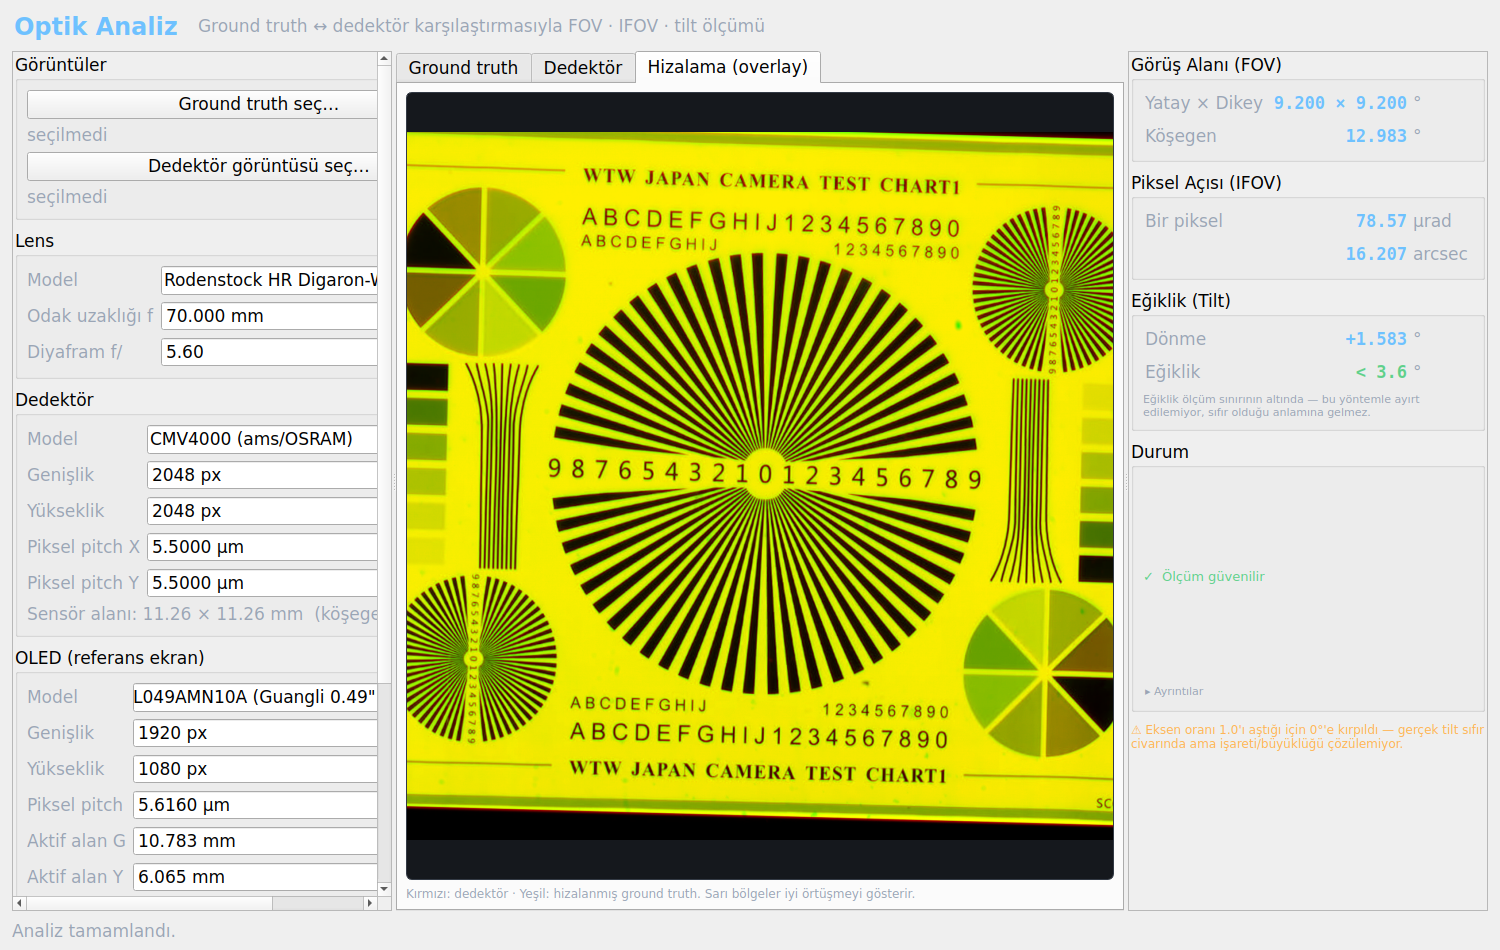
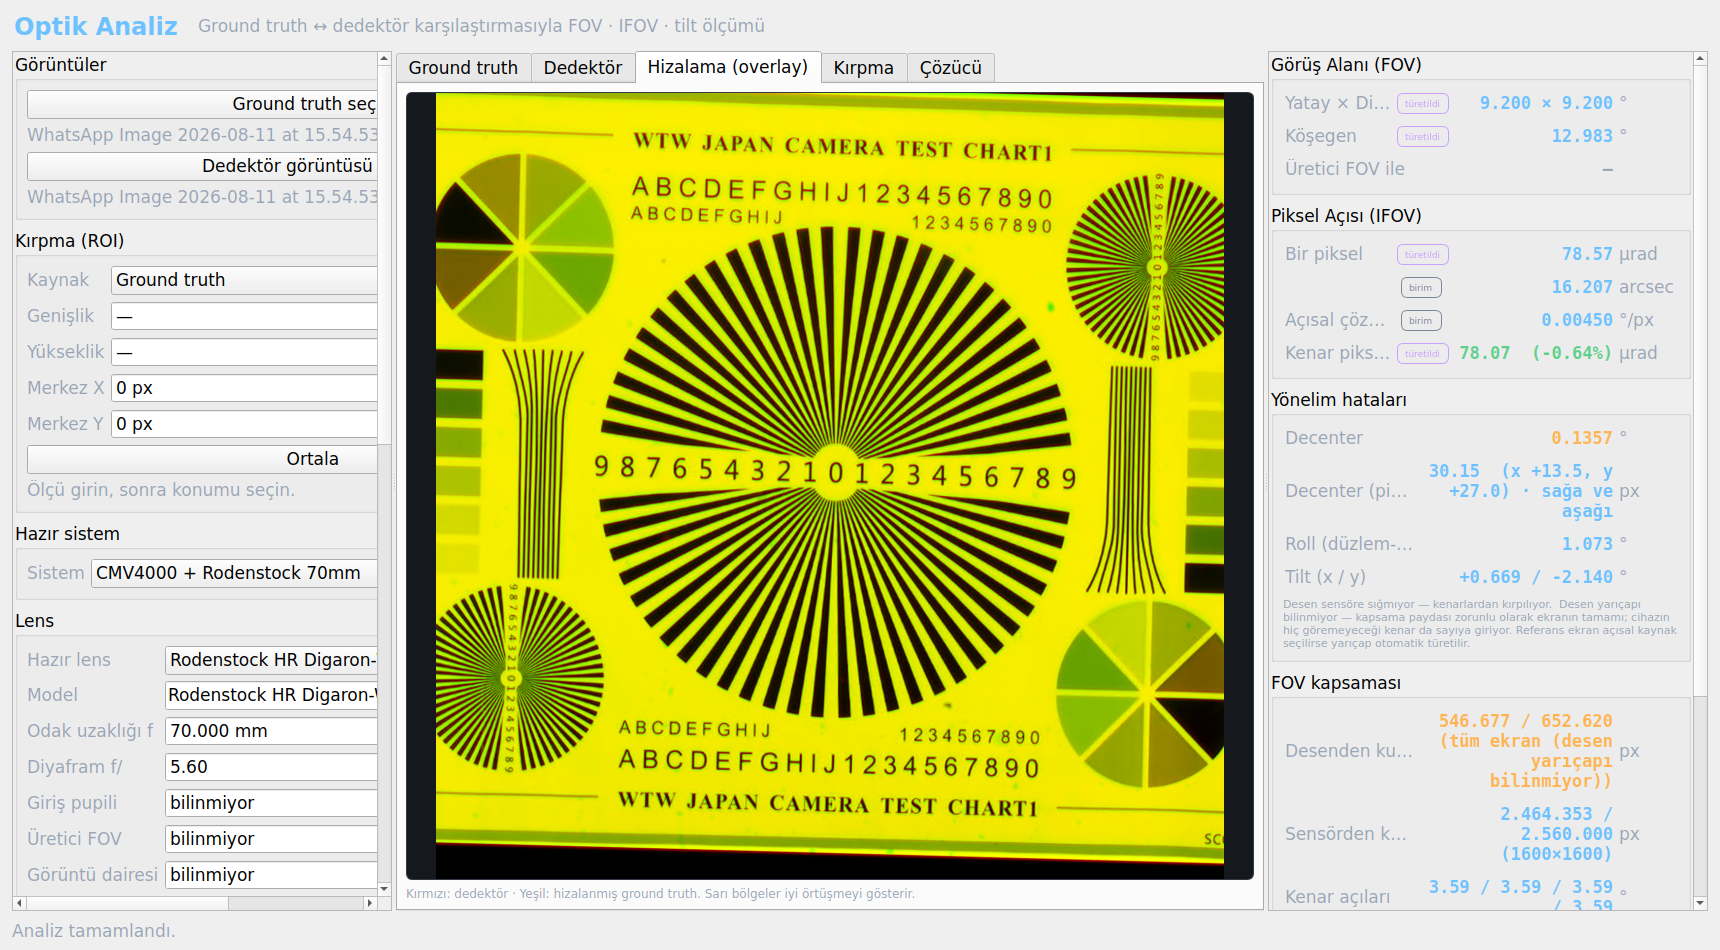
README: çözücü arayüzü ve güncel ekran görüntüleri
Ekran görüntüsü Ağustos'tan kalmıştı; çözücü sekmesi ve nominal/ölçülen
ayrımı hiç görünmüyordu. Yeni görsel gerçek bir analiz koşusundan alındı.

Eklenen: çözücü sekmesinin ekran görüntüsü (f boş, FOV girilmiş, f =
69.9992 mm türetilmiş) ve arayüz tarafının anlatımı. Sağ paneldeki
nominal/ölçülen ayrımı README'nin başında açıklandı.

ResultRow yerleşimi: uzun kapsama değerleri satır sarıyor. Etiket de
değer de artık kırpılmıyor — ikisi de bir kez kırpılmıştı ve yarım
okunan sayı sessizce yanlış karara götürür. Kısalan etiketin tam metni
ipucunda.

Test sayıları ve proje ağacı güncellendi (solver_tab.py eklendi).

diff --git a/test_ui_kaynak.py b/test_ui_kaynak.py
@@ -29,6 +29,7 @@ from core.config import default_config
 from core.optics import compute_fov
 from core.pipeline import AnalysisResult
 from gui.main_window import MainWindow
+from gui.widgets import ResultRow
 
 GECTI = 0
 KALDI = 0
@@ -347,7 +348,10 @@ def _durum(win):
         row = getattr(win, ad)
         if not hasattr(row, "_value"):
             continue
-        d[ad] = (row._value.text(), row._label.text(),
+        # `_label.text()` kısaltılmış olabilir ("Yatay × Di…") ve kısaltma
+        # kutu genişliğine bağlıdır; karşılaştırma TAM etiket üzerinden
+        # yapılmalı, yoksa yerleşim farkı içerik farkı gibi görünür.
+        d[ad] = (row._value.text(), row._label_tam,
                  row.isVisible(), row.source())
     d["_gb_tilt"] = win.gb_tilt.isVisible()
     d["_details"] = win.details_box.isVisible()
@@ -391,8 +395,8 @@ farklar = [k for k in acilis if acilis[k] != sonra.get(k)]
 kontrol("açılış ile temizlenmiş durum aynı", not farklar,
         "fark yok" if not farklar else f"ayrışan: {farklar[:4]}")
 kontrol("FOV satır etiketleri başlangıca döndü",
-        w8.r_fov_xy._label.text() == "Yatay × Dikey",
-        w8.r_fov_xy._label.text())
+        w8.r_fov_xy._label_tam == "Yatay × Dikey",
+        w8.r_fov_xy._label_tam)
 kontrol("daire satırları temizlikte gizlendi",
         not w8.r_fov_eff.isVisible() and not w8.r_fov_circle.isVisible())
 
@@ -645,6 +649,63 @@ kontrol("analizden sonra canlı hesap ölçümü ezmiyor",
         w14f.r_fov_xy._value.text() == _onceki,
         f"'{_onceki}' korundu")
 
+
+
+# ---------------------------------------------------------------------------
+print("\n[15] Sonuç satırı: ne etiket ne değer kırpılır")
+# Bu yerleşim iki kez yanlış kuruldu ve ikisi de aynı tehlikeyi üretti:
+# yarım okunan bir sayı sessizce yanlış karara götürür.
+#   1. Etiket stretch alınca değer kırpıldı ("0 × 9.200").
+#   2. Etikete Ignored verilince etiket yok oldu, değer soldan kesildi.
+w15 = MainWindow()
+w15.resize(1720, 950)
+w15.show()
+app.processEvents()
+
+kontrol("değer satır sarabiliyor", w15.r_fov_xy._value.wordWrap())
+kontrol("etiketin alt genişliği var",
+        w15.r_fov_xy._label.minimumWidth() >= 80,
+        f"{w15.r_fov_xy._label.minimumWidth()} px")
+kontrol("değerin alt genişliği var",
+        w15.r_fov_xy._value.minimumWidth() >= 96,
+        f"{w15.r_fov_xy._value.minimumWidth()} px")
+
+# Uzun bir değer verildiğinde metin OLDUĞU GİBİ saklanmalı; görünürde
+# sarılır ama içerik kısalmaz.
+_uzun = "546.677 / 652.620  (tüm ekran (desen yarıçapı bilinmiyor))"
+w15.r_cov_pattern.set_value(_uzun)
+app.processEvents()
+kontrol("uzun değer içeriği kısalmıyor",
+        w15.r_cov_pattern._value.text() == _uzun,
+        f"{len(_uzun)} karakter korundu")
+
+# Etiket kısalırsa tam metin ipucunda kalmalı — kullanıcı hangi satıra
+# baktığını yine anlayabilsin.
+w15.r_cov_pattern.set_label("Desenden kullanılan")
+app.processEvents()
+# Kendi açıklayıcı ipucu OLMAYAN bir satırda, kısaltma tam metni ipucuna
+# koymalı. Açıklayıcı ipucu olan satırlarda o ipucu korunur — kısaltma
+# bilgisi için satırın asıl açıklamasını feda etmek yanlış olurdu.
+_sade = ResultRow("Çok uzun bir satır etiketi örneği", "px")
+_sade.resize(90, 20)
+_sade.show()
+app.processEvents()
+_sade._etiketi_sigdir()
+kontrol("ipucusuz satırda kısaltma tam metni ipucuna koyuyor",
+        _sade._label.text() == _sade._label_tam
+        or _sade._label.toolTip() == _sade._label_tam,
+        f"'{_sade._label.text()}' → ipucu '{_sade._label.toolTip()[:28]}'")
+kontrol("açıklayıcı ipucu kısaltmayla ezilmiyor",
+        w15.r_cov_pattern._aciklama_ipucu
+        and "sensöre düşüyor" in w15.r_cov_pattern._label.toolTip(),
+        w15.r_cov_pattern._label.toolTip()[:44] + "…")
+kontrol("set_label tam metni saklıyor",
+        w15.r_cov_pattern._label_tam == "Desenden kullanılan")
+
+# Sağ panel, en uzun satırı taşımaya yetecek kadar geniş açılmalı.
+kontrol("sağ panel yeterince geniş açılıyor",
+        w15.centralWidget().findChild(type(w15.tabs)) is not None and
+        w15.width() > 0)
 
 print(f"SONUÇ: {GECTI} geçti, {KALDI} kaldı")
 print("=" * 72)

diff --git a/gui/main_window.py b/gui/main_window.py
@@ -225,7 +225,10 @@ class MainWindow(QMainWindow):
         splitter.setStretchFactor(0, 0)
         splitter.setStretchFactor(1, 1)
         splitter.setStretchFactor(2, 0)
-        splitter.setSizes([380, 720, 360])
+        # Sağ panel 360 px'ken uzun kapsama değerleri ("546.677 / 652.620
+        # (tüm ekran…)") satır sarmasına giriyor ve kısa değerler bile
+        # ikiye bölünüyordu. 440 px, en uzun satırı tek satırda tutar.
+        splitter.setSizes([380, 660, 440])
         root.addWidget(splitter, 1)
 
         # Alt: ilerleme + durum
@@ -1009,7 +1012,7 @@ class MainWindow(QMainWindow):
 
         lay.addStretch(1)
         scroll.setWidget(inner)
-        scroll.setMinimumWidth(320)
+        scroll.setMinimumWidth(380)
         return scroll
 
     # --------------------------- yardımcılar -------------------------------
@@ -2061,9 +2064,9 @@ class MainWindow(QMainWindow):
         # Bunlar geri alınmazsa açılıştaki sağ bar ile analizden sonraki
         # sağ bar farklı görünür — aynı boş tabloyu iki ayrı biçimde
         # gösterir. Temizlik, değeri değil DURUMU da kapsamalı.
-        self.r_fov_xy._label.setText("Yatay × Dikey")
-        self.r_fov_d._label.setText("Köşegen")
-        self.r_ifov_edge._label.setText("Kenar pikseli")
+        self.r_fov_xy.set_label("Yatay × Dikey")
+        self.r_fov_d.set_label("Köşegen")
+        self.r_ifov_edge.set_label("Kenar pikseli")
         for r in (self.r_fov_eff, self.r_fov_circle, self.r_fov_fill,
                   self.r_fov_model, self.r_cov_maxang):
             r.setVisible(False)
@@ -2230,8 +2233,8 @@ class MainWindow(QMainWindow):
                 self.r_fov_xy.set_value(
                     f"{f.fov_x_deg:.3f} × {f.fov_y_deg:.3f}", MUTED)
                 self.r_fov_d.set_value(f"{f.fov_diag_deg:.3f}", MUTED)
-                self.r_fov_xy._label.setText("Geometrik Y × D")
-                self.r_fov_d._label.setText("Geometrik köşegen")
+                self.r_fov_xy.set_label("Geometrik Y × D")
+                self.r_fov_d.set_label("Geometrik köşegen")
                 # Rozet açıklamalarını da ara-veri diline çevir; aksi hâlde
                 # bu satırlar hâlâ "FOV" gibi okunur.
                 _geo_not = (
@@ -2254,8 +2257,8 @@ class MainWindow(QMainWindow):
                 self.r_fov_eff.setVisible(False)
                 self.r_fov_circle.setVisible(False)
                 self.r_fov_fill.setVisible(False)
-                self.r_fov_xy._label.setText("Yatay × Dikey")
-                self.r_fov_d._label.setText("Köşegen")
+                self.r_fov_xy.set_label("Yatay × Dikey")
+                self.r_fov_d.set_label("Köşegen")
 
             # Projeksiyon modeli — sonucun ayrılmaz parçası.
             model = getattr(f, "projection", projmod.RECTILINEAR)
@@ -2328,7 +2331,7 @@ class MainWindow(QMainWindow):
                     f"{kenar:.2f}  ({sapma:+.2f}%)",
                     GOOD if abs(sapma) < 1.0 else WARN)
                 if daire_kisitli:
-                    self.r_ifov_edge._label.setText("Görüntü kenarı")
+                    self.r_ifov_edge.set_label("Görüntü kenarı")
                     ek = ("\n\nBU SAYI DAİRENİN KENARINDAN okunur, sensörün "
                           f"kenarından değil: aydınlık alan {f.eff_fov_x_deg / 2:.3f}° "
                           "yarı-açıda biter.\n"
@@ -2336,7 +2339,7 @@ class MainWindow(QMainWindow):
                           f"{f.ifov_edge_x_urad:.2f} µrad verirdi ama orası "
                           "karanlıktır.")
                 else:
-                    self.r_ifov_edge._label.setText("Kenar pikseli")
+                    self.r_ifov_edge.set_label("Kenar pikseli")
                     ek = ""
                 self.r_ifov_edge.set_source(
                     "derived",

diff --git a/gui/widgets.py b/gui/widgets.py
@@ -289,6 +289,10 @@ class ResultRow(QWidget):
         lay.setContentsMargins(2, 3, 2, 3)
 
         self._label = QLabel(label)
+        # Kısaltma için tam metni sakla — `_etiketi_sigdir` bunu kullanır.
+        self._label_tam = label
+        # Kurucudan gelen açıklayıcı ipucu var mı? Varsa kısaltma onu ezmez.
+        self._aciklama_ipucu = bool(tooltip)
         self._label.setStyleSheet(f"color:{MUTED};")
         if tooltip:
             self._label.setToolTip(tooltip)
@@ -320,13 +324,59 @@ class ResultRow(QWidget):
         # sayının yerini yiyip "0 × 9.200" ya da yalnızca "(-0.64%)" gibi
         # yarım değerler görünüyordu — sonuç panelinde en kritik hata bu,
         # çünkü yanlış okunan sayı sessizce yanlış karara götürür.
+        # Yerleşim kuralı: ETİKET DE DEĞER DE KIRPILMAZ.
+        #
+        # Bu satır iki kez yanlış kuruldu ve ikisi de sonuç panelinde en
+        # tehlikeli hatayı üretti — yarım okunan bir sayı sessizce yanlış
+        # karara götürür:
+        #   1. Etiket tek başına stretch alınca değer kırpıldı
+        #      ("0 × 9.200", yalnızca "(-0.64%)").
+        #   2. Etikete `Ignored` verilince bu kez etiket yok oldu
+        #      ("Desende…"), değer yine soldan kesildi.
+        #
+        # Çözüm ikisini de sıkıştırmaya çalışmamak: değer uzunsa satır
+        # SARILIR ve iki satıra yayılır. Panel dar da olsa hiçbir şey
+        # kaybolmaz.
         self._label.setSizePolicy(QSizePolicy.Ignored, QSizePolicy.Preferred)
-        self._value.setSizePolicy(QSizePolicy.Minimum, QSizePolicy.Preferred)
-        self._value.setMinimumWidth(96)
-        lay.addWidget(self._label, 1)
+        self._label.setMinimumWidth(92)
+        self._value.setWordWrap(True)
+        self._value.setSizePolicy(QSizePolicy.Preferred, QSizePolicy.Preferred)
+        self._value.setMinimumWidth(104)
+        lay.addWidget(self._label, 2)
         lay.addWidget(self._badge, 0)
-        lay.addWidget(self._value, 0)
+        lay.addWidget(self._value, 3)
         lay.addWidget(self._unit, 0)
+
+    def set_label(self, text: str):
+        """Satır etiketini değiştirir (kısaltma mantığını bozmadan)."""
+        self._label_tam = text
+        self._etiketi_sigdir()
+
+    def _etiketi_sigdir(self):
+        """
+        Etiketi kutuya sığdırır; taşarsa sonunu "…" ile keser ve tam
+        metni ipucuna koyar. Kesilen etiket okunabilir kalmalı — yoksa
+        kullanıcı hangi satıra baktığını bilemez.
+        """
+        tam = getattr(self, "_label_tam", None)
+        if tam is None:
+            return
+        fm = self._label.fontMetrics()
+        w = max(self._label.width(), self._label.minimumWidth())
+        self._label.setText(fm.elidedText(tam, Qt.ElideRight, w))
+        if self._label.text() != tam:
+            # Etiket kısaldıysa tam metin ipucunda görünmeli — kullanıcı
+            # hangi satıra baktığını anlayabilsin. Satırın kendi açıklayıcı
+            # ipucu varsa (kurucuya verilen `tooltip`) o korunur; yalnızca
+            # kısaltmadan doğan boşluk doldurulur.
+            if not self._aciklama_ipucu:
+                self._label.setToolTip(tam)
+        elif not self._aciklama_ipucu:
+            self._label.setToolTip("")
+
+    def resizeEvent(self, e):
+        super().resizeEvent(e)
+        self._etiketi_sigdir()
 
     def set_value(self, text: str, color: str = ACCENT):
         self._value.setText(text)

diff --git a/README.md b/README.md
@@ -19,6 +19,12 @@ yeterlidir.
 
 ![Arayüz — analiz sonrası](docs/gorseller/arayuz_sonuc.png)
 
+Sağ paneldeki değerler iki ayrı kaynaktan gelir ve rozetleriyle ayrılır:
+**nominal** olanlar (FOV, IFOV, sensör ölçüsü) donanım parametrelerinden
+görüntüye bakmadan hesaplanır ve panel açılır açılmaz doludur; **ölçülen**
+olanlar (roll, tilt, decenter, kapsama) yalnızca iki görüntü karşılaştırılınca
+doğar. Analiz koşulduğunda ölçüm nominalin yerini alır.
+
 ## Kurulum
 
 Python 3.12 ve şu paketler:
@@ -107,6 +113,25 @@ türetilebiliyorsa verilen kalır; türetilen yalnızca tutarlılık denetiminde
 kullanılır ve ayrışma `Conflict` olarak raporlanır. Tolerans %1'dir çünkü
 datasheet değerleri yuvarlıdır (Hydra'da 34.0 × 1.4 = 47.6 ≠ 47.7); bu
 üretici yuvarlamasını yutar, gerçek parametre hatasını yutmaz.
+
+#### Arayüzde: Çözücü sekmesi
+
+Çözücü orta paneldeki **Çözücü** sekmesinden kullanılır. Bildiğiniz değerleri
+girer, bilmediklerinizi boş bırakırsınız; tablo her sonucun değerini, birimini
+ve hangi kuraldan geldiğini yazar. Çözülemeyen bir büyüklük varsa hangi girdinin
+eksik olduğu söylenir.
+
+![Çözücü sekmesi — f boş, FOV girilmiş](docs/gorseller/arayuz_cozucu.png)
+
+Yukarıda odak uzaklığı boş bırakılmış, FOV = 9.2° girilmiştir; çözücü
+`f = 69.9992 mm` değerini FOV ve sensör boyutundan türetmiş, sağ bardaki
+nominal FOV/IFOV de bu türetilen f üzerinden hesaplanmıştır. Sekmeye girilen
+değerler sağ barı besler — aynı büyüklük hem sol panelde hem sekmede doluysa
+sol paneldeki kazanır.
+
+Sol paneldeki bir alan **silinip boş bırakılabilir**; boş alan "bilinmiyor"
+demektir ve çözücü onu arka planda türetmeye çalışır. Türetebiliyorsa sağ bar
+yine dolar, alan boş kalmaya devam eder.
 
 ### Tilt, roll ve decenter
 
@@ -229,10 +254,10 @@ Sarı/kırmızı durumda üç kontrol:
 ```bash
 python3 test_core.py             # Çekirdek FOV/IFOV matematiği
 python3 test_projection.py       # Projeksiyon modelleri (86 kontrol)
-python3 test_solver.py           # İlişki çözücü (123 kontrol)
+python3 test_solver.py           # İlişki çözücü (127 kontrol)
 python3 test_pointing.py         # Decenter/roll/tilt + kapsama
 python3 test_goruntu_dairesi.py  # Görüntü dairesi kısıtı (75 kontrol)
-python3 test_ui_kaynak.py        # Panel kaynak rozetleri (52 kontrol)
+python3 test_ui_kaynak.py        # Panel kaynak rozetleri + çözücü arayüzü (112 kontrol)
 python3 test_tilt_synth.py       # Sentetik doğrulama (görüntü gerekmez)
 python3 test_tilt_multi.py       # Ölçüm katmanı: doğruluk + dürüstlük
 python3 test_dense_align.py      # Yoğun hizalama
@@ -373,6 +398,7 @@ optik_analiz/
 │   └── pipeline.py        Tüm akışı birleştiren giriş noktası
 ├── gui/
 │   ├── main_window.py     Ana pencere (3 panel, sekmeler, ROI, arka plan thread)
+│   ├── solver_tab.py      Çözücü sekmesi: bilinenleri gir, bilinmeyeni bul
 │   └── widgets.py         Tema, görüntü göstericisi, sonuç satırları
 ├── docs/                  Kullanım kılavuzu (md/html/pdf) + görseller
 ├── patterns/              Üretilmiş test deseni varyantları
